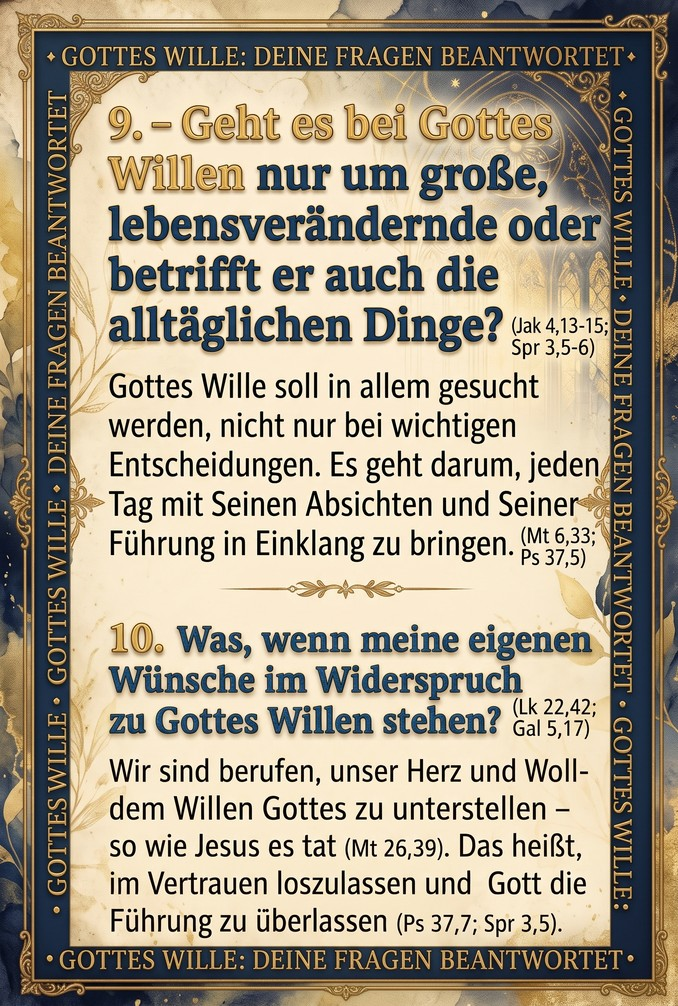
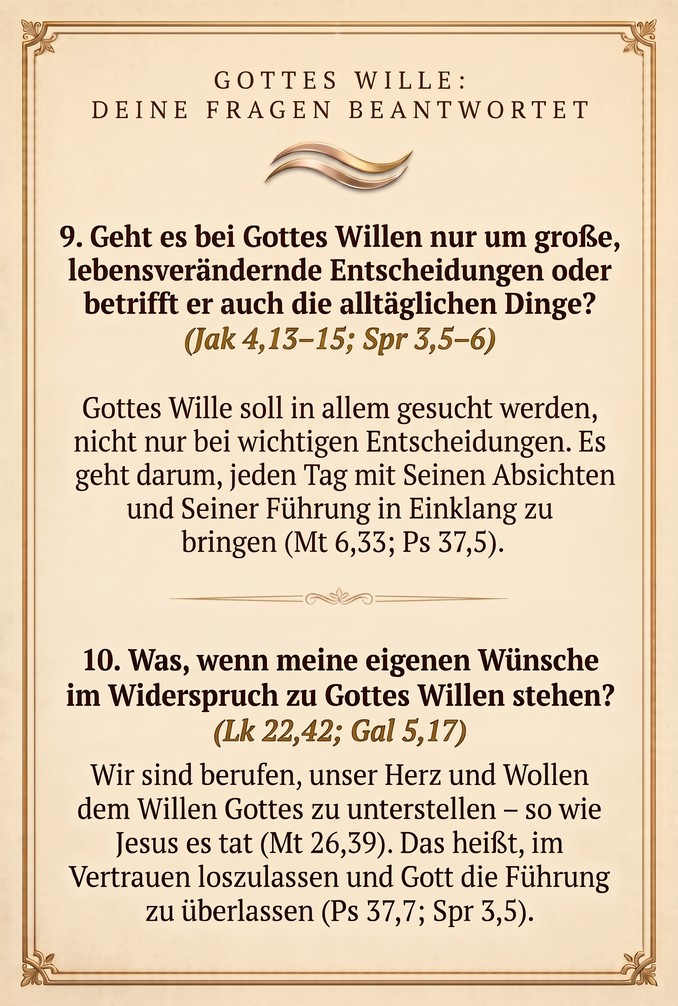
Karte 13: neue Vorderseite (Gemini) Fragen 9–10
Claude-Session: https://claude.ai/code/session_0124h5yDy6USGZ8DS8E24Fju

diff --git a/card-text.js b/card-text.js
@@ -14,7 +14,7 @@ window.COR_DEO_TEXT = {
  "10": "DER SINN, DEN WILLEN GOTTES ZU TUN | Bereitet auf Sein Reich vor | Mt 7,21; Mt 25,10; 1 Mo 6,22 | Bringt Veränderung & klare Bestimmung | Röm 12,2; Apg 9,3–6; Lk 19,8–9 | Führt zum ewigen Leben | 1 Joh 2,17; Lk 23,42–43; Rut 1,16–17 | Bringt Erfüllung & Lohn | Hebr 10,36; 1 Mo 41,41–43; Dan 6,16–23 | Gibt Führung & Orientierung | Spr 3,5–6; 1 Mo 12,1–4; Apg 8,26–29 | Bringt Frieden & Gewissheit | Jes 26,3; Phil 4,6–7; Ps 119,165 | Ehrt Gott & segnet andere | Mt 5,16; 1 Petr 2,12; 1 Mo 50,20 | DIE KRAFT, GOTTES WILLEN ZU TUN | Stärkt Gehorsam | Eph 6,6; Ps 51,19; Lk 1,38 | Stärkt in Prüfungen | Jak 1,12; Hebr 12,1–2; Dan 3,16–18 | Stärkt gegen Versuchung | Mt 26,41; 1 Kor 10,13; 1 Mo 39,9 | Stärkt in der Schwäche | 2 Kor 12,9–10; 2 Mo 4,10–12; 1 Sam 17,45–47 | Schenkt Autorität | Lk 10,19; Apg 5,29–32; 2 Kor 10,5 | Eint mit dem Auftrag Christi | Joh 4,34; Joh 5,30; Phil 2,5–8 | Schenkt Freude & Zufriedenheit | Ps 40,9; Joh 15,10–11",
  "11": "GOTTES WILLE: DEINE FRAGEN BEANTWORTET | 1. Wie kann ich Gottes Willen für meine konkrete Lebenssituation erkennen? | (Ps 119,105; Spr 3,5–6) | Gottes Wille wird durch Sein Wort, Gebet und innere Überzeugung offenbart (Röm 12,2; Phil 4,6–7). Er zeigt sich auch durch weisen Rat, das Leben in Gemeinschaft und ein beständiges Suchen nach Ihm in allen Lebensbereichen (Spr 15,22; Mt 6,33). | 2. Was ist Gottes allgemeiner Wille für alle Seine Kinder? | (1 Thess 4,3; 1 Thess 5,16–18) | Gottes allgemeiner Wille für Seine Kinder beinhaltet innere Erneuerung, anderen in Liebe und Gerechtigkeit zu dienen, Frucht zu bringen, in der Nachfolge Jesu zu leben und ein Leben in Liebe, Gehorsam und Heiligkeit zu führen (Mi 6,8; Joh 15,8; 1 Petr 1,15–16). Er will nicht, dass jemand verloren geht (2 Petr 3,9; 1 Tim 2,4). | GOTTES WILLE: DEINE FRAGEN BEANTWORTET | 3. Was ist, wenn ich einen Fehler mache oder Gottes Willen verfehle? Kann ich wieder auf den richtigen Weg kommen? | (Ps 37,23–24; Spr 24,16) | Auch wenn wir vom Weg Gottes abirren, ruft Er uns zur Umkehr und zum Bekenntnis (1 Joh 1,9; Lk 15,18–20). Durch Jesus Christus vergibt und erneuert Gott den, der ehrlich zu Ihm kommt. Seine Gnade ist größer als unser Versagen – Er schenkt Vergebung und einen neuen Anfang (Röm 5,20; Jes 43,19). | 4. Warum beinhaltet Gottes Wille manchmal Leid, Prüfungen oder schwierige Umstände? | (Jak 1,2–4; 1 Petr 4,12–13) | Gott formt durch Leid und Prüfungen unseren Charakter und unser Vertrauen (Röm 5,3–5; Hebr 12,10–11). In schweren Zeiten zieht Er uns näher zu sich und stärkt uns. Auch im Leid schenkt Gott Seinen Kindern Hoffnung und Trost (Ps 34,19; 2 Kor 1,3–4).",
  "12": "GOTTES WILLE: DEINE FRAGEN BEANTWORTET | 5. Wie kann ich treu bleiben und in Gottes Willen ausharren, besonders wenn es schwierig ist? | (Hebr 10,36; Offb 3,10) | Vertraue auf Gottes Zeit und halte fest an Hoffnung und Gebet (Röm 12,12; Jak 5,11). Bleibe standhaft, indem du deinen Blick auf Jesus richtest (Hebr 12,1–2). | 6. Was ist die Bedeutung von Gottes Timing in Seinem Willen für mein Leben? | (Pred 3,11; Gal 6,9) | Gottes Zeit ist vollkommen; Geduld und Gehorsam bringen Reife (Ps 31,16; Hab 2,3). Warte im Vertrauen auf Seinen guten Plan (Röm 8,28; Jer 29,11). | GOTTES WILLE: DEINE FRAGEN BEANTWORTET | 7. Wie beeinflussen mein Charakter und meine Beziehung zu Gott meine Fähigkeit, Seinen Willen zu leben? | (Ps 119,34; Röm 12,1–2) | Gott sucht ein Herz, das sich Ihm zuwendet, geprägt von Demut, Liebe und Wahrheit (1 Sam 16,7; Jak 4,8). Mit einem hörenden Herzen, geistlichem Wandel und Treue lebst du in Einklang mit Seinem Willen und erfährst Seine verändernde Kraft (Ps 23,1–3; Gal 5,16–25). | 8. Wie passen meine Beziehungen zu anderen Menschen in Gottes Willen für mein Leben? | (Mt 22,37–39; Röm 12,18) | Gottes Wille bedeutet tätige Liebe, Dienst sowie Frieden und Einheit mit anderen zu suchen (Joh 13,34–35), Barmherzigkeit und Gerechtigkeit zu üben und echte Freundschaften zu bauen (Mi 6,8; Jak 2,15–17).",
- "13": "GOTTES WILLE: DEINE FRAGEN BEANTWORTET | 9. Geht es bei Gottes Willen nur um große, lebensverändernde oder betrifft er auch die alltäglichen Dinge? | (Jak 4,13–15; Spr 3,5–6) | Gottes Wille soll in allem gesucht werden, nicht nur bei wichtigen Entscheidungen. Es geht darum, jeden Tag mit Seinen Absichten und Seiner Führung in Einklang zu bringen. (Mt 6,33; Ps 37,5) | 10. Was, wenn meine eigenen Wünsche im Widerspruch zu Gottes Willen stehen? | (Lk 22,42; Gal 5,17) | Wir sind berufen, unser Herz und Wollen dem Willen Gottes zu unterstellen – so wie Jesus es tat (Mt 26,39). Das heißt, im Vertrauen loszulassen und Gott die Führung zu überlassen (Ps 37,7; Spr 3,5). | GOTTES WILLE: DEINE FRAGEN BEANTWORTET | 11. Wie hängt meine Verwandlung mit dem Leben in Gottes Willen zusammen? | (Röm 12,2; 2Kor 3,18) | Gottes Wille ist, dass du „verwandelt wirst durch die Erneuerung deines Sinnes“ (Röm 12,2). Der Heilige Geist führt dich Schritt für Schritt zu geistlicher Reife (Phil 1,6). | 12. Welche Rolle spielt Gehorsam, und was sind die Folgen von Ungehorsam? | (Joh 14,15; 5Mose 28,1–2; 28,15) | Gehorsam bringt Segen und Erfüllung, Ungehorsam aber führt zu Verlust und verpasstem Segen (Jes 1,19–20). „Liebt ihr mich, so haltet meine Gebote“ (Joh 14,15).",
+ "13": "GOTTES WILLE: DEINE FRAGEN BEANTWORTET | 9. Geht es bei Gottes Willen nur um große, lebensverändernde oder betrifft er auch die alltäglichen Dinge? | (Jak 4,13–15; Spr 3,5–6) | Gottes Wille soll in allem gesucht werden, nicht nur bei wichtigen Entscheidungen. Es geht darum, jeden Tag mit Seinen Absichten und Seiner Führung in Einklang zu bringen (Mt 6,33; Ps 37,5) | 10. Was, wenn meine eigenen Wünsche im Widerspruch zu Gottes Willen stehen? | (Lk 22,42; Gal 5,17) | Wir sind berufen, unser Herz und Wollen dem Willen Gottes zu unterstellen – so wie Jesus es tat (Mt 26,39). Das heißt, im Vertrauen loszulassen und Gott die Führung zu überlassen (Ps 37,7; Spr 3,5). | GOTTES WILLE: DEINE FRAGEN BEANTWORTET | 11. Wie hängt meine Verwandlung mit dem Leben in Gottes Willen zusammen? | (Röm 12,2; 2Kor 3,18) | Gottes Wille ist, dass du „verwandelt wirst durch die Erneuerung deines Sinnes“ (Röm 12,2). Der Heilige Geist führt dich Schritt für Schritt zu geistlicher Reife (Phil 1,6). | 12. Welche Rolle spielt Gehorsam, und was sind die Folgen von Ungehorsam? | (Joh 14,15; 5Mose 28,1–2; 28,15) | Gehorsam bringt Segen und Erfüllung, Ungehorsam aber führt zu Verlust und verpasstem Segen (Jes 1,19–20). „Liebt ihr mich, so haltet meine Gebote“ (Joh 14,15).",
  "14": "GOTTES WILLE: DEINE FRAGEN BEANTWORTET | 13. Was ist das endgültige Ziel oder der höchste Zweck, Gottes Willen zu tun? | (1. Joh 2,17; Eph 1,11–12) | Gottes Willen zu tun, ist Ausdruck unseres Lebens mit Ihm. Es richtet uns auf Sein Reich aus, lässt uns in Seiner Führung leben und bringt Frucht zu Seiner Ehre (Mt 7,21; Joh 15,8; 1. Kor 10,31). Unsere Hoffnung auf ewiges Leben gründet dabei nicht auf unserer Leistung, sondern auf Christi Verheißung (Joh 10,28). Letztlich bleiben diejenigen, die Gottes Willen tun, in Ewigkeit (1. Joh 2,17), denn in Christus sind wir zu Seiner Ehre bestimmt (Eph 1,11–12). | 14. Wie überwinde ich innere Kämpfe auf dem Weg, Gottes Willen zu folgen? | (2. Kor 10,4–5; Röm 7,22–25) | Gott hilft uns, Zweifel zu überwinden, den „alten Menschen“ abzulegen und unsere Gedanken Christus gehorsam zu machen (Eph 4,22–24; 2. Kor 10,4–5). Wie Jona dürfen wir lernen, Gottes Ruf nicht auszuweichen, sondern Ihm zu vertrauen. Auch mitten im inneren Kampf dürfen wir auf Gottes Hilfe durch Jesus Christus hoffen (Röm 7,22–25). Wenn wir uns Ihm anvertrauen, trägt uns Seine Gnade gerade in unserer Schwäche (2. Kor 12,9; Spr 3,5). | „GOTTES WILLE: DEINE FRAGEN BEANTWORTET“ | 15. Wie finde ich Frieden, wenn ich Gottes Willen folge und der Weg ungewiss ist? | (Phil 4,6–7; Joh 14,27) | Frieden kommt nicht durch Gewissheit, sondern durch Vertrauen auf Gott. Gebet und Dankbarkeit bewahren Herz und Gedanken in Christus. Im Vertrauen schenkt Er Frieden und Zuversicht (Röm 15,13; Ps 46,11). | 16. Wie kann ich sicher sein, dass ich Gottes Willen und nicht eigene Wünsche folge? | (Röm 12,2; Spr 3,5–6) | Prüfe Sein Wort, suche Seine Führung im Gebet und unterordne deine Wünsche. Sein Wille führt stets zu Wahrheit, Frieden und geistlicher Frucht und widerspricht nie Seinem Wort.",
  "15": "LEBENSPHASEN IN GOTTES WILLEN – DIE REISE DES BAUMES | PHASE 4 | Anhaltendes Ausharren & Ewige Hoffnung | (Die ewige Perspektive) | PHASE 3 | Aktives Leben & Fruchtbarkeit | (Gottes Abbild tragen) | PHASE 2 | Formung & Verfeinerung | (Die Hand des Topfers, Weingärtner) | PHASE 1 | Erwachen & Grundlage | (Der Ruf zur Ausrichtung) | LEBENSPHASEN IN GOTTES WILLEN | Josef | PHASE 4 | (1Mo 39,21; 41,16; 50,24–25) | PHASE 3 | (1Mo 41,39–49; 45,5–8) | PHASE 2 | (1Mo 37,23–28; 39,7–23) | PHASE 1 | (1Mo 37,5–11)",
  "16": "4 ZUGÄNGE ZUM WILLEN GOTTES | DAS TOR DES GLAUBENS | JOHANNES 6 40 | DAS TOR DES GLAUBENS | DAS TOR DER BEZIEHUNG | JOHANNES 6,40 | MATTHÄUS 22,37-40 | 1.Mose 15,6 · Hebr 11,11 Mt 8,10 · Mt 14,29-31 Mt 15 · Apg 16,31-34 | 2. Mose 33,11 · Ps 23,1-3 1. Sam 18,1-4 · Rut 1,16-17 Apg 4,36-37 · Apg 16,14-15 | 4 ZUGÄNGE ZUM WILLEN GOTTES | DAS TOR DER ERNEURUNG | RÖM 12,2 | DAS TOR DES HANDELNS | MI 6,8 | DAS TOR DER ERNEUERUNG | RÖM 12,2 | Apg 9; Joh 21; 1 Mo 50,20 Ps 51; Lk 15 ; 2 Mo 3 Neh 1; Rut 1,16; Joh 4 | 1 Mo 18,22–33; 2 Mo 14,13–31; Neh 5,1; Est 4,13–16; Mt 14,13–21 · Apg 9,36–42",

diff --git a/sw.js b/sw.js
@@ -6,8 +6,8 @@
      sodass ein Update der Seite (VERSION erhöhen) die ~7,6 MB nicht erneut herunterlädt.
    - Fremde Adressen werden nicht angefasst (die Schriften liegen im Ordner fonts/ und werden wie Bilder aus dem Cache bedient).
    Bei Änderungen an diesem Skript: VERSION erhöhen. Bei neuen/geänderten Kartenbildern: IMG_CACHE erhöhen. */
-var VERSION = "cordeo-v150";
-var IMG_CACHE = "cordeo-img-v133";
+var VERSION = "cordeo-v151";
+var IMG_CACHE = "cordeo-img-v134";
 var CARD_COUNT = 120;                       // Anzahl der Bilddateien "COR DEO-Karten-001.jpg" … "-120.jpg"
 var PRECACHE_PARALLEL = 4;
 var SHELL = ["./", "index.html", "manifest.json", "pwa.js", "share.js", "legal.js", "card-text.js", "fonts/fonts.css", "share-qr.svg", "share-qr.png",
